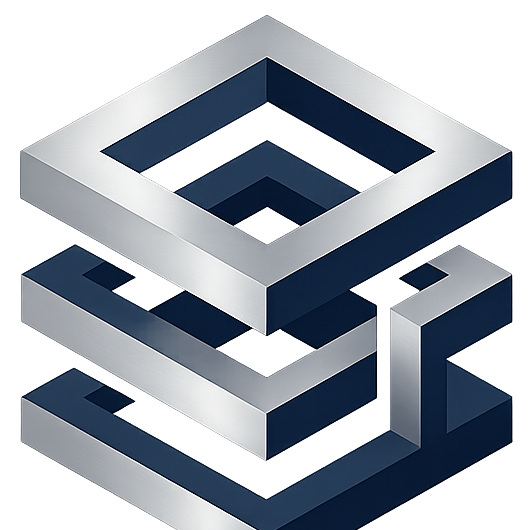
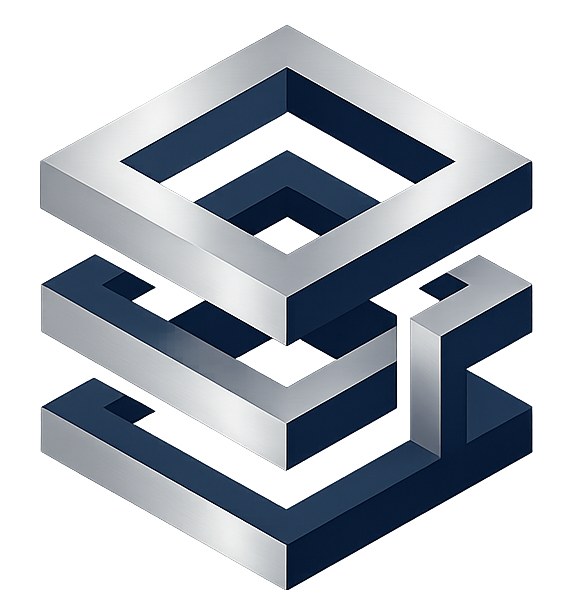
Refina selo QrStack vertical

diff --git a/styles.css b/styles.css
@@ -746,19 +746,28 @@ h1, h2, h3, p { margin: 0; }
   box-shadow: none;
 }
 
+.qrstack-lockup {
+  position: relative;
+  width: 96px;
+  padding-top: 12px;
+}
+
 .product-copy {
+  position: absolute;
+  top: 0;
+  left: 0;
   font-family: "Valorant Bryan T", "Valorant - Bryan T", "Libre Franklin", system-ui, sans-serif;
-  font-size: .58rem;
+  font-size: .48rem;
   font-weight: 400;
-  letter-spacing: .06em;
+  letter-spacing: .04em;
   text-transform: uppercase;
   white-space: nowrap;
 }
 
 .qrstack-mark {
-  width: 82px;
-  height: 82px;
-  object-fit: cover;
+  width: 96px;
+  height: 98px;
+  object-fit: contain;
   border-radius: 0;
   box-shadow: none;
 }
@@ -1035,13 +1044,18 @@ h1, h2, h3, p { margin: 0; }
     gap: 3px;
   }
 
+  .qrstack-lockup {
+    width: 80px;
+    padding-top: 10px;
+  }
+
   .product-copy {
-    font-size: .5rem;
+    font-size: .42rem;
   }
 
   .qrstack-mark {
-    width: 68px;
-    height: 68px;
+    width: 80px;
+    height: 82px;
   }
 
   .qrstack-wordmark {

diff --git a/index.html b/index.html
@@ -7,7 +7,7 @@
   <link rel="preconnect" href="https://fonts.googleapis.com">
   <link rel="preconnect" href="https://fonts.gstatic.com" crossorigin>
   <link href="https://fonts.googleapis.com/css2?family=Cormorant+Garamond:wght@500;600;700&family=Libre+Franklin:wght@400;500;600;700;800&display=swap" rel="stylesheet">
-  <link rel="stylesheet" href="styles.css?v=qrstack-badge-4">
+  <link rel="stylesheet" href="styles.css?v=qrstack-badge-5">
 </head>
 <body>
   <main class="menu-shell">
@@ -236,8 +236,10 @@
     </footer>
 
     <div class="product-badge" aria-label="Um produto QrStack">
-      <span class="product-copy">Um produto</span>
-      <img class="qrstack-mark" src="assets/qrstack-mark.png" alt="" aria-hidden="true">
+      <div class="qrstack-lockup">
+        <span class="product-copy">Um produto</span>
+        <img class="qrstack-mark" src="assets/qrstack-mark.png" alt="" aria-hidden="true">
+      </div>
       <img class="qrstack-wordmark" src="assets/qrstack-wordmark.png" alt="QrStack">
     </div>
   </main>